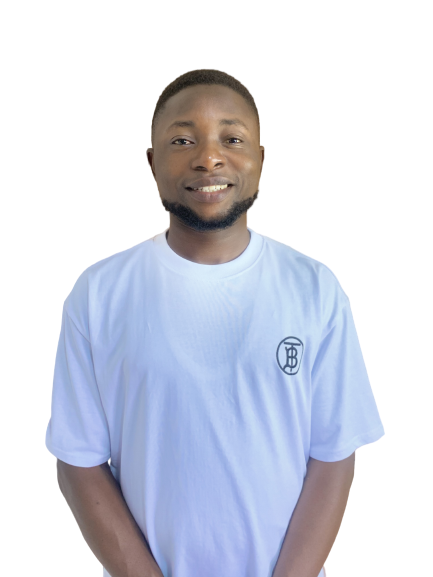
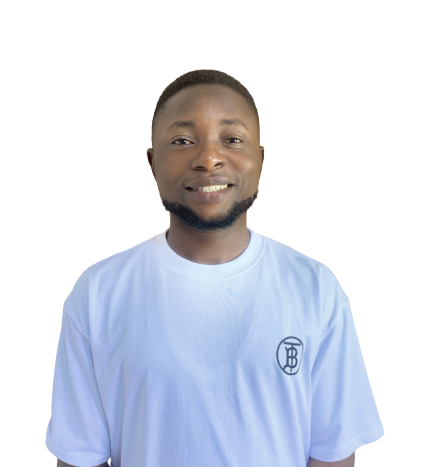
update props validation and User Card component

Changed region(s): [[0.0901, 0.1199, 0.9007, 1.0], [0.5104, 0.7495, 0.6005, 0.8694], [0.5404, 0.8694, 0.5704, 0.8994]]

diff --git a/src/components/header/header.css b/src/components/header/header.css
@@ -1,6 +1,6 @@
 header {
     height: 100vh;
-    padding-top: 7rem;
+    padding-top: 4rem;
     overflow: hidden;
 }
 
@@ -99,7 +99,7 @@ header {
 /* ------------MEDIA QUERIES (SMALL DEVICES)-------------------- */
 @media screen and (max-width: 600px) {
     header {
-        height: 100vh;
+        padding-top: 6rem;
     }
 
     .header__socials,

diff --git a/src/components/header/Header.jsx b/src/components/header/Header.jsx
@@ -23,7 +23,7 @@ const Header = () => {
 
         <div className="me">
           <img
-            src={require("../../assets/me2.png")}
+            src={require("../../assets/me.png")}
             alt="my_picture"
             className="img"
           />
